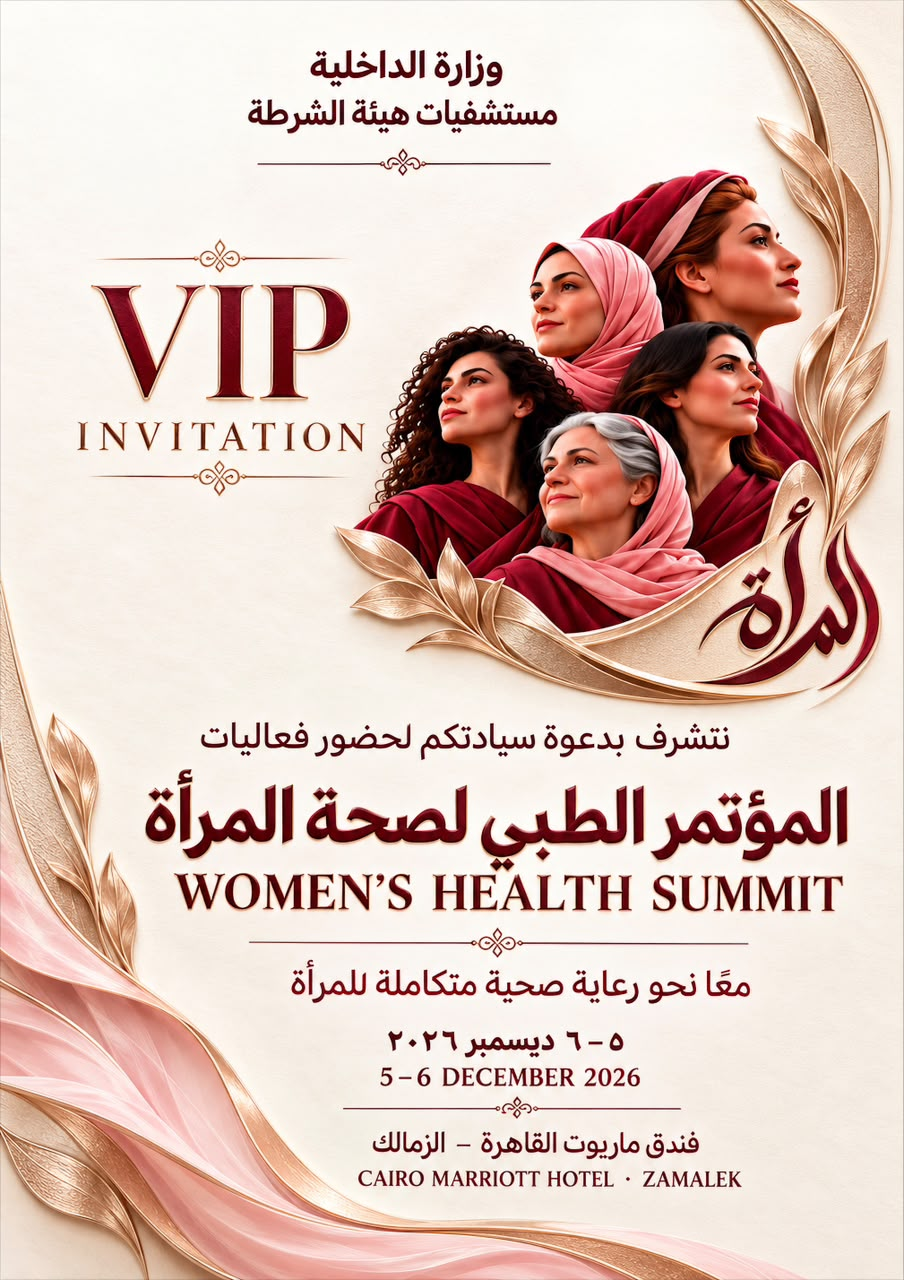
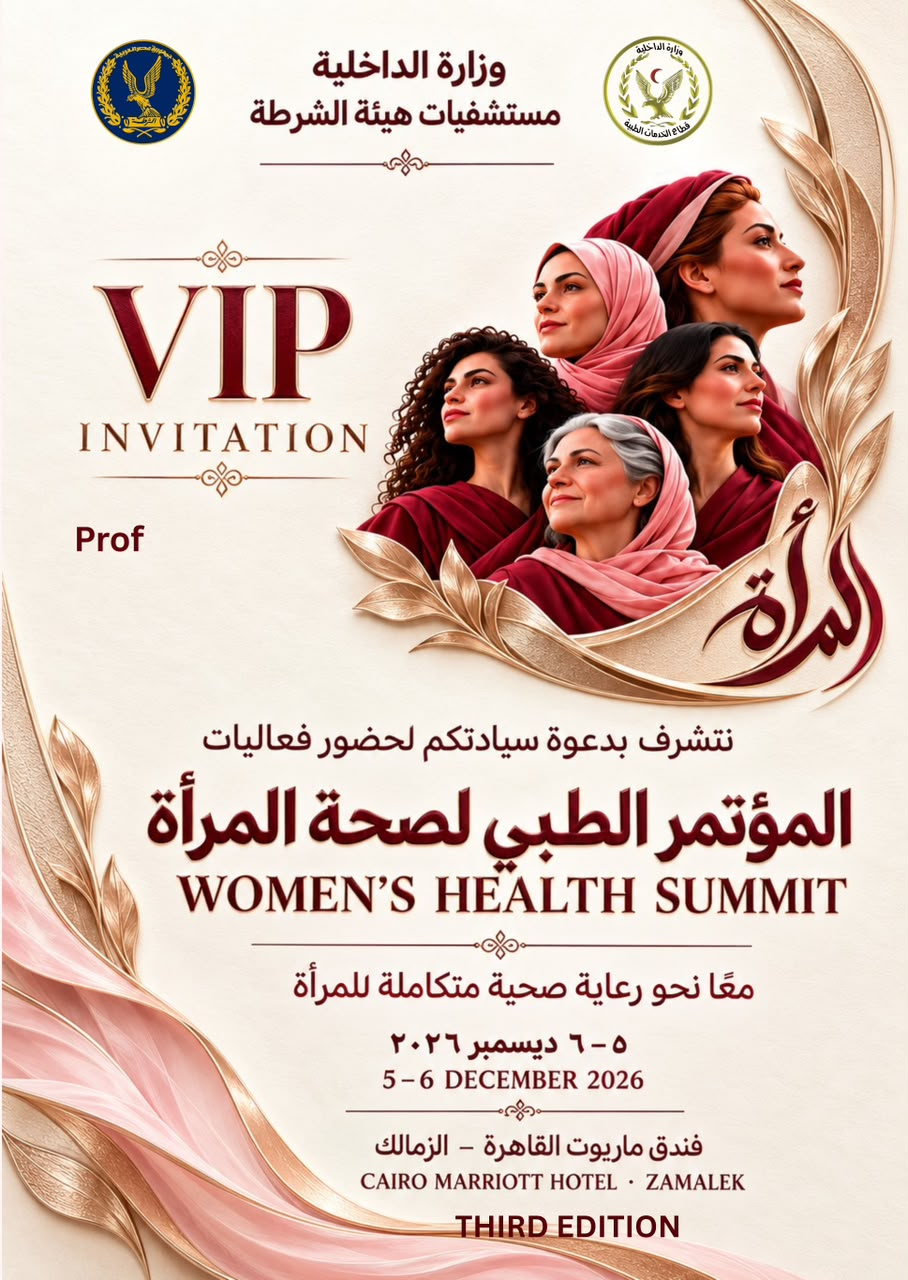
Use Invitation artwork for personalization

diff --git a/README.md b/README.md
@@ -5,7 +5,7 @@ Standalone invitation and attendance confirmation site. It does not integrate wi
 ## Hosting Requirements
 
 - PHP 8.1 or later with `PDO_SQLite` and `mbstring` enabled.
-- An HTTPS-enabled subdomain whose document root can be set to this project's `public/` directory. Preserve `hero/WHS-Egypt-2026-VIP-Invitation.jpeg` beside `public/` for the hero image, `public/assets/invitation.jpeg` for downloads, and `porf/WHS-Egypt-2026-VIP-Invitation.jpeg` for personalized invitations. If the sibling `hero/` folder is not deployed, the hero automatically falls back to the public invitation image.
+- An HTTPS-enabled subdomain whose document root can be set to this project's `public/` directory. Preserve `hero/WHS-Egypt-2026-VIP-Invitation.jpeg` beside `public/` for the hero image; it uses the artwork from `porf/WHS-Egypt-2026-VIP-Invitation.jpeg`. The personalized invitation and its download use `public/assets/invitation.jpeg`. If the sibling `hero/` folder is not deployed, the hero automatically falls back to the public invitation image.
 - PHP write permission for this project's `var/` directory (the app creates it with private permissions if it does not exist).
 - Personalized invitation rendering uses browser Canvas and does not require PHP GD or Imagick.
 - A configured outbound PHP mail transport and an authorized sender address for RSVP notifications to `contact@whs-egy.com`.
